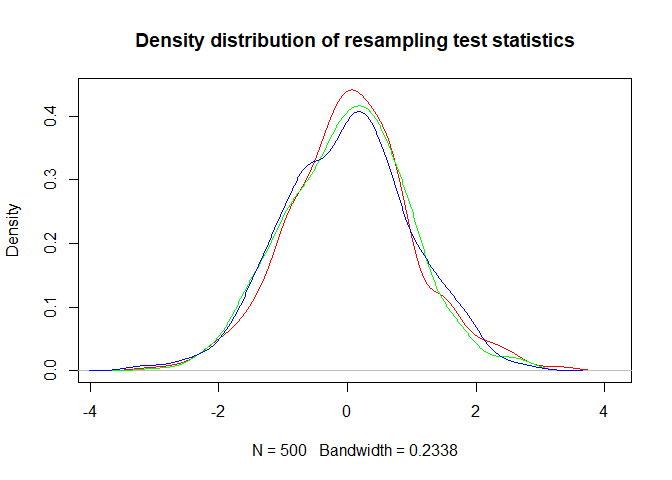
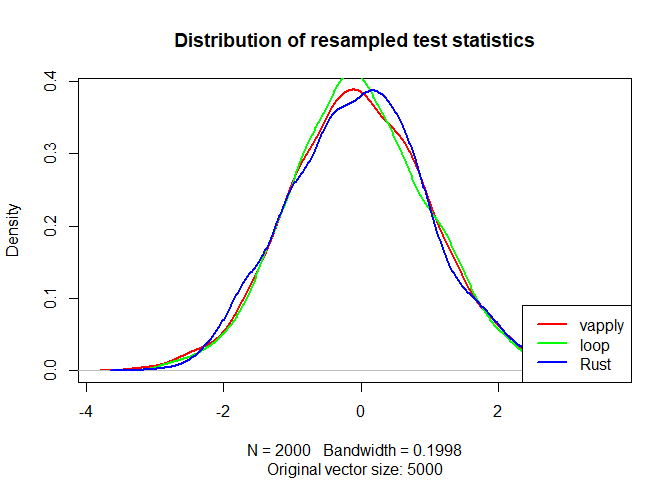
simplied some rust functions; updates `main_plot()`; updates README

diff --git a/src/myrustlib/src/bootstrap.rs b/src/myrustlib/src/bootstrap.rs
@@ -14,17 +14,18 @@ pub extern fn bootstrap_rs(x: *const c_double, _r: c_int, size: c_int) -> *const
     let n2: f64 = 1.0 / (2.0 * n as f64);
 
     // Slice apart pointer and transfer to vector
-    let numbers: Vec<f64> = unsafe{
+    let numbers = unsafe{
         // assert!(!x.is_null());
         slice::from_raw_parts(x, n)
-    }.iter().cloned().collect();
+        // Box::from_raw(x; n)
+    }.iter().cloned().collect::<Vec<f64>>();
+
 
     let estimate: f64 = mean(&numbers);
 
-    vec![0.0 as f64; _r as usize]
-        .into_iter()
+    (0.._r)
         .map(|_| {
-            let samp: Vec<f64> = sample_with_replacement(&numbers, &n);
+            let samp: Vec<f64> = sample_with_replacement(&numbers, n as i32);
             let samp_est: f64 = mean(&samp);
             let mut samp_se: f64 = sterr(&samp);
 
@@ -36,11 +37,11 @@ pub extern fn bootstrap_rs(x: *const c_double, _r: c_int, size: c_int) -> *const
         }).collect::<Vec<f64>>().as_mut_ptr()
 }
 
-pub fn sample_with_replacement(x_vector: &Vec<f64>, n_replacements: &usize) -> Vec<f64> {
+pub fn sample_with_replacement(x_vector: &Vec<f64>, n_replacements: i32) -> Vec<f64> {
     let mut rng = rand::thread_rng();
     let size: usize = x_vector.len();
     
-    vec![0.0 as f64; *n_replacements]
+    (0..n_replacements)
         .into_iter()
         .map(|_| {
             x_vector[rng.gen_range(0, size) as usize]

diff --git a/README.md b/README.md
@@ -26,10 +26,10 @@ devtools::install_github("jmbarbone/bootstrapRRust")
 library(bootstrapRRust)
 run_benchmarks(x = rchisq(5000, 3), R = 2000)
 #> Unit: milliseconds
-#>           expr      min       lq     mean   median       uq       max neval cld
-#>  base R vapply 801.9270 804.4344 870.0758 811.9909 879.7307 1148.4263    10   b
-#>    base R loop 796.9383 809.3787 839.4588 819.1260 859.7174  969.6399    10   b
-#>           Rust 216.3695 234.2178 259.3166 252.5440 289.6848  313.3235    10  a
+#>    expr      min       lq     mean   median       uq       max neval cld
+#>  vapply 806.7684 818.4216 854.7491 833.5918 881.6042 1000.0573    10   b
+#>    loop 791.8361 801.4223 850.0727 824.7459 865.0181 1015.2215    10   b
+#>    Rust 220.0761 226.7964 256.2649 251.2126 283.7543  311.2337    10  a
 ```
 
 <details>
@@ -73,17 +73,8 @@ sessionInfo()
 
 ## Graph results
 
-Update `boostrapRRust::main()`to produce this
-
 ``` r
-a <- rpois(2000, 5)
-x <- bootstrap_r(a, 500)
-y <- bootstrap_loop(a, 500)
-z <- bootstrap_rs(a, 500)
-
-plot(density(x), col = "red", main = "Density distribution of resampling test statistics")
-lines(density(y), col = "green")
-lines(density(z), col = "blue")
+main_plot()
 ```
 
 <img src="man/figures/README-graph-1.png" width="100%" />
